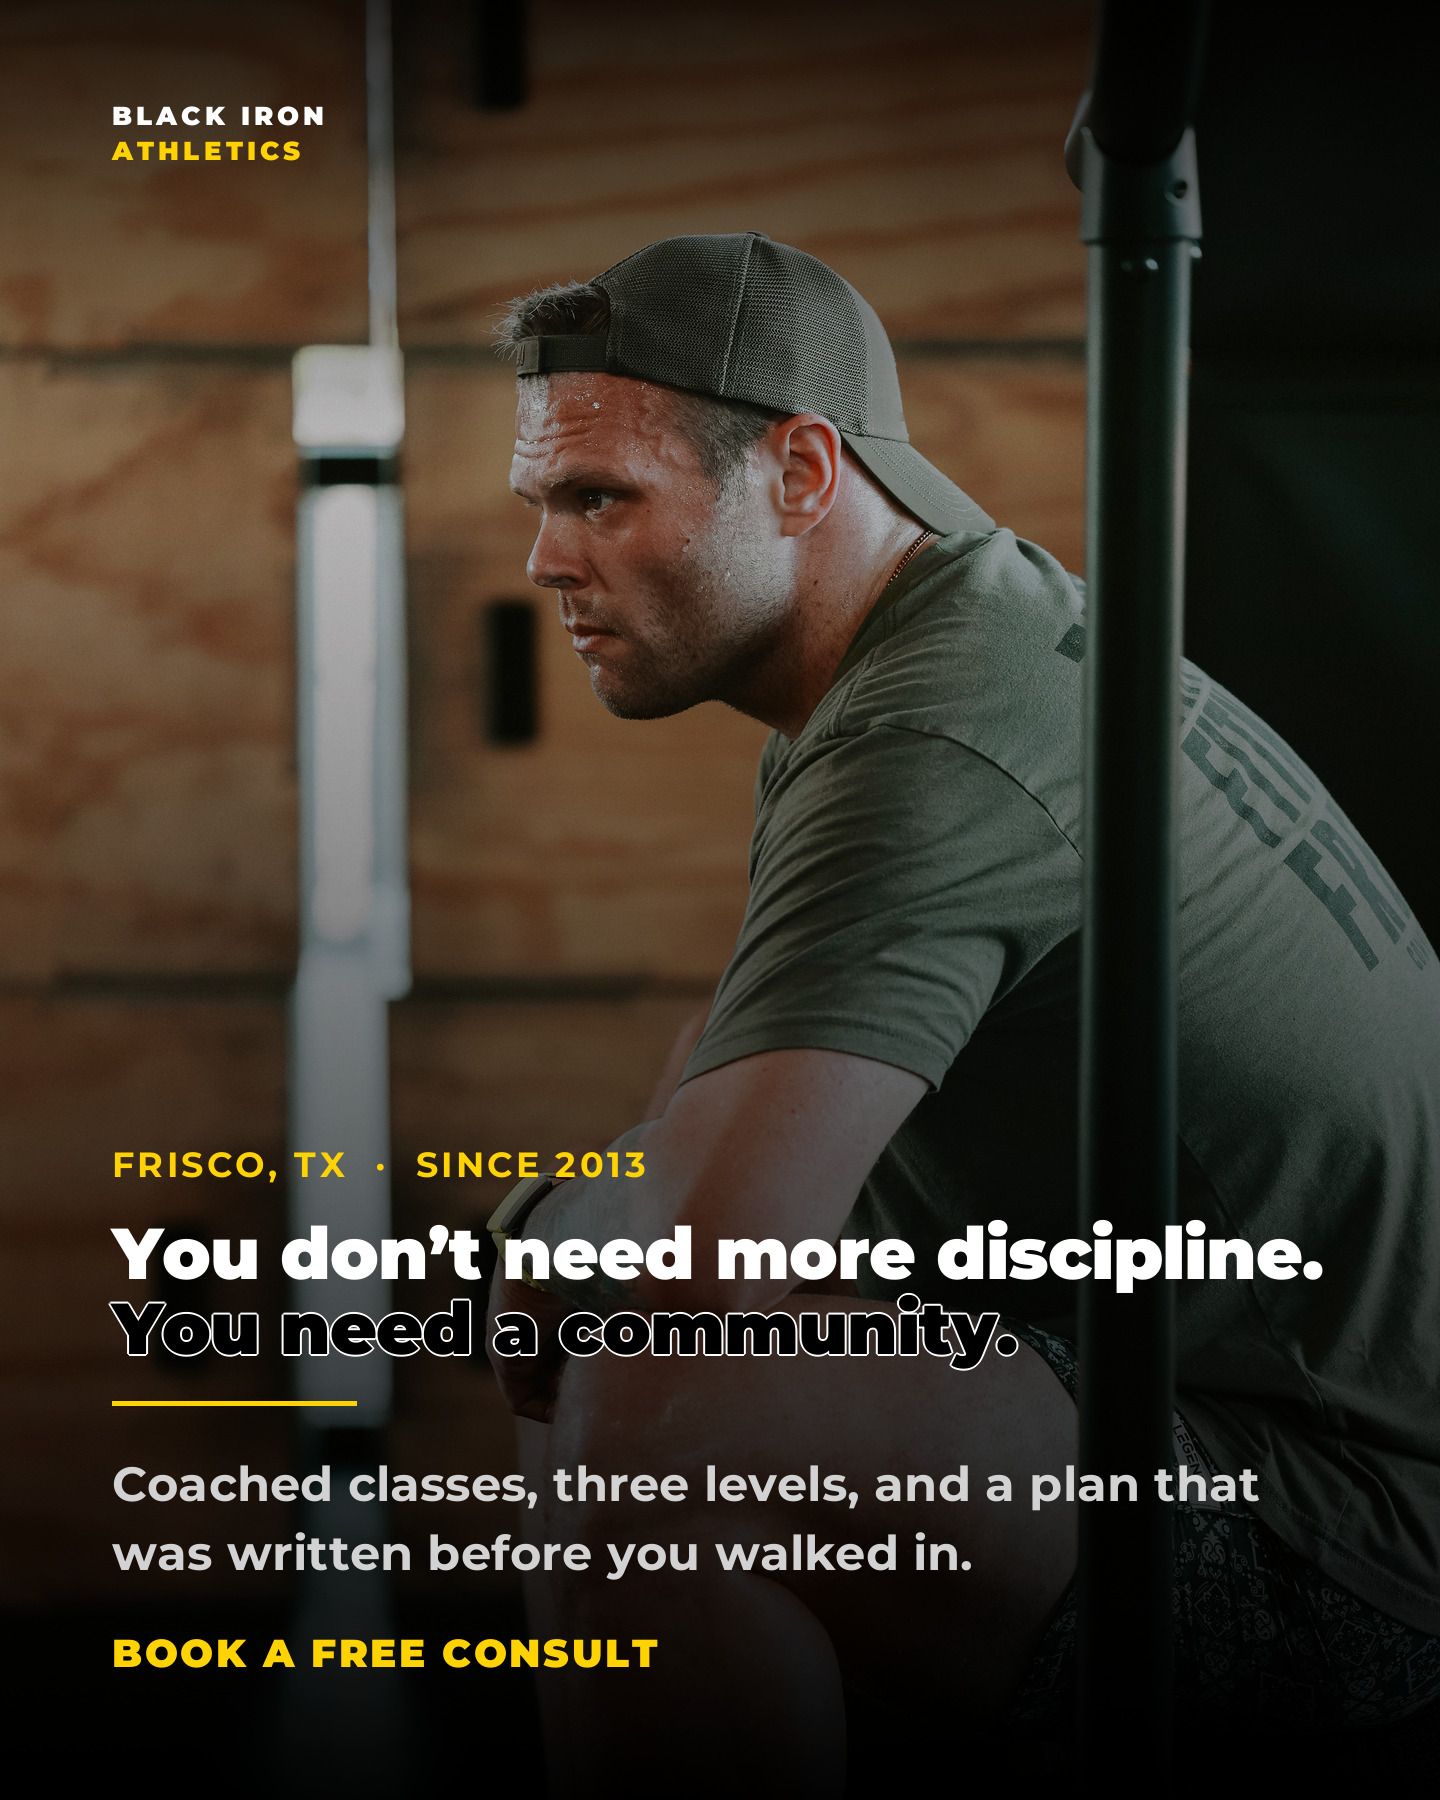
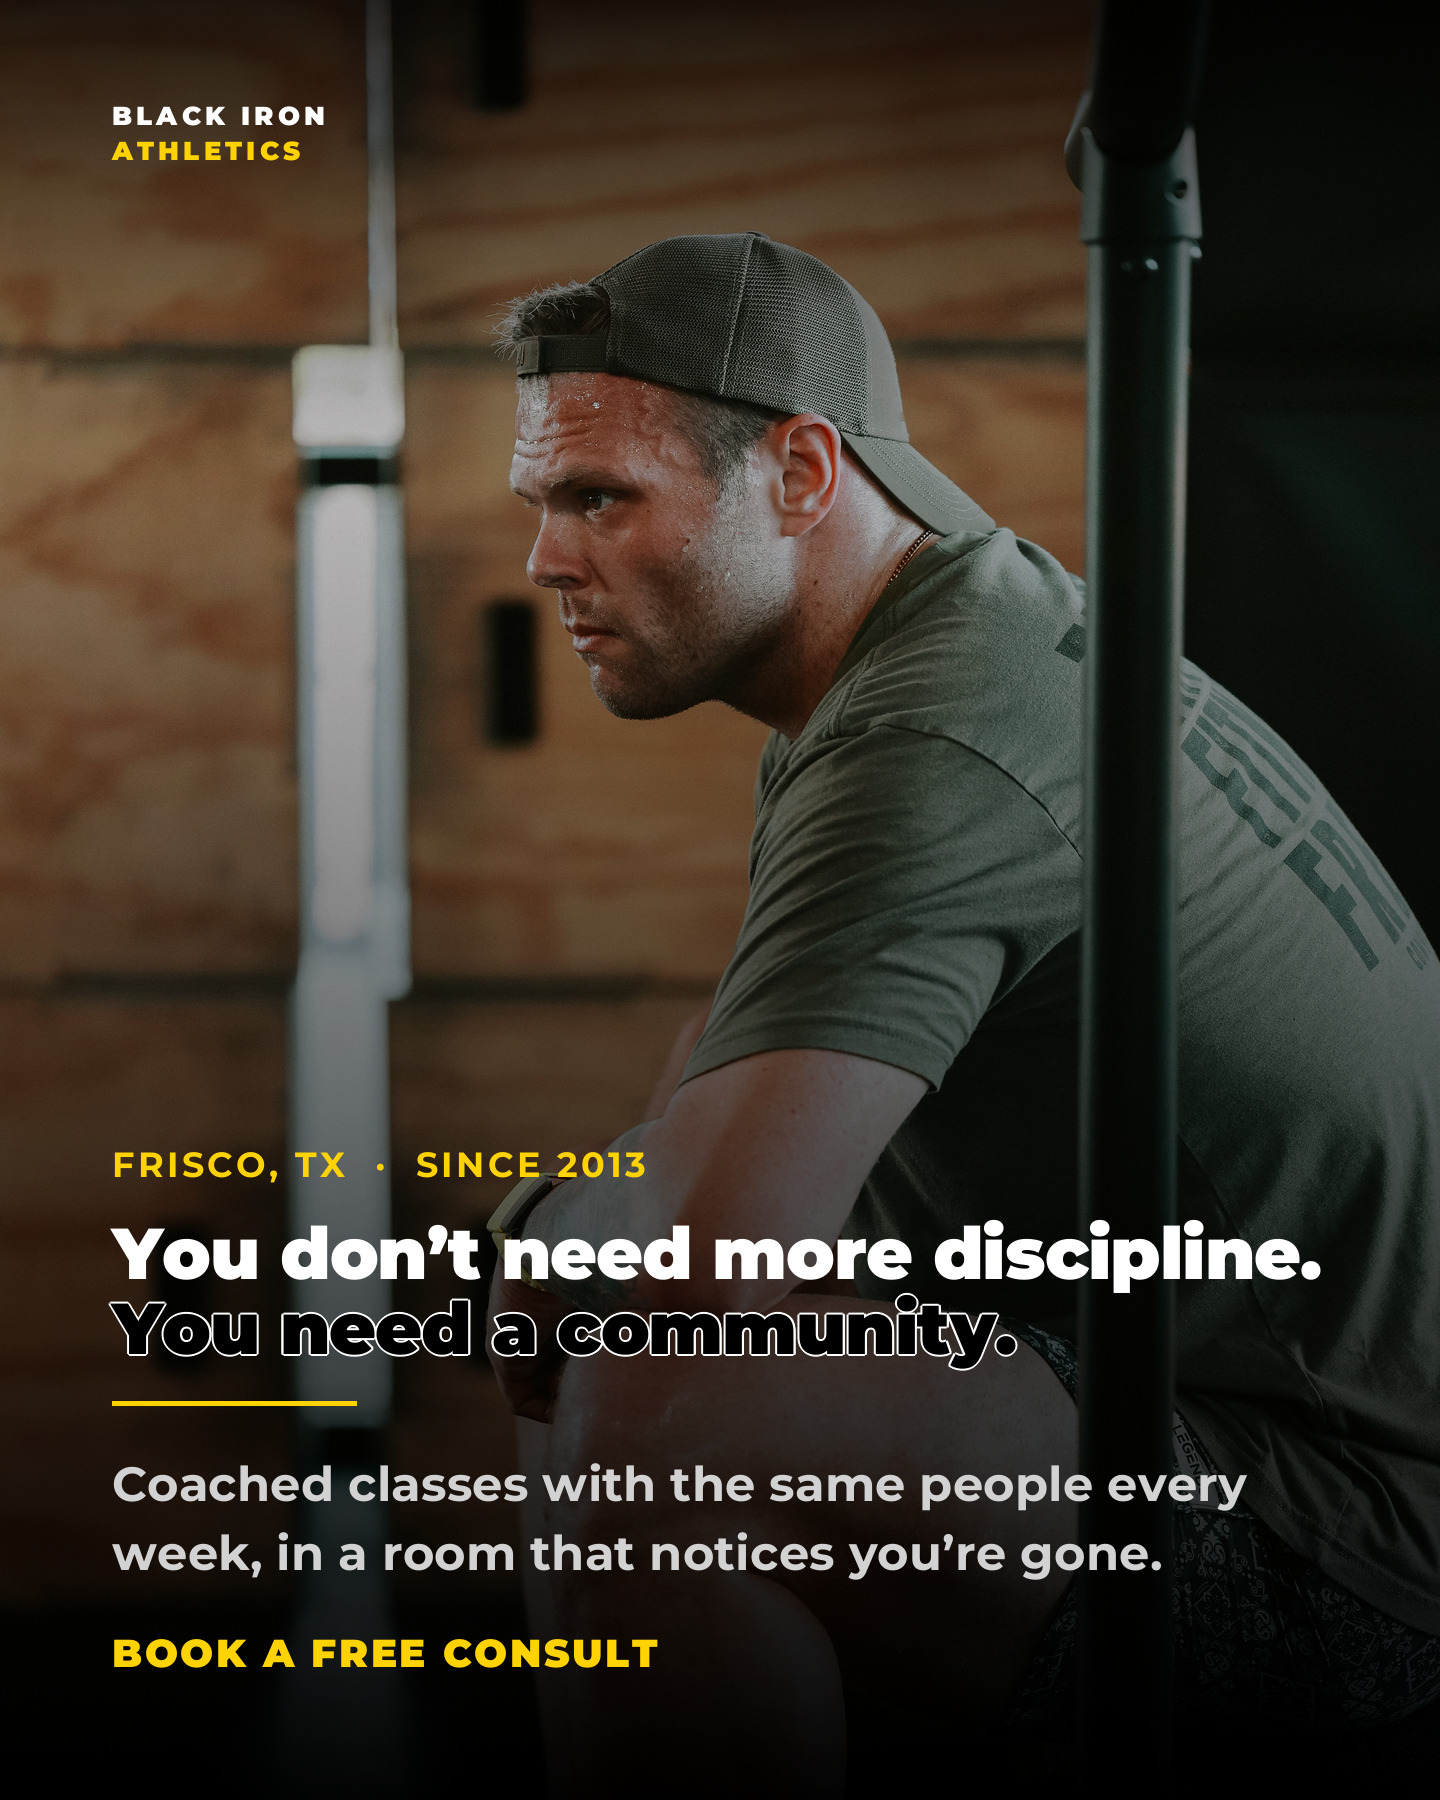
copy: the routine funnel commits to the reframe end to end
The creative moved to "You don't need more discipline. You need a
community." and everything after the click still sold coaching. Someone
tapping because they are tired of being told they lack discipline
landed on a page that opened by telling them they had failed before.
That is a colder handoff than the ad earned, and the generator's own
comment warns against exactly it.

So the whole routine funnel now carries one argument: the problem was
never your discipline, it was that you were doing it alone. The
coaching and the programming are still here and still true, they just
stop being the headline and become the reason it holds.

Landing page: hero matches the ad word for word, so the click is
honest. Situation names the wrong thing they blamed. Mission is "stop
doing it alone", and the three points move from what you get to who is
in the room. Close is "come meet your people".

Capture page: "It was never your discipline", which echoes the ad's
first half in two lines rather than four. Length mattered because that
form already starts too far down the page and a longer headline would
push it further.

Creative sub-line: it was still selling coaching under a community
headline. Rewritten, and tightened to 83 characters after measuring
against the real Montserrat metrics, because the first version orphaned
"it." onto a third line where every other card sets two.

Ad copy in the checklist and the playbook artifact follow, inside
Meta's 125/27/27 limits.
[…]

diff --git a/routine.html b/routine.html
@@ -5,13 +5,13 @@
     <!-- CONTRACT: keep this exact viewport tag — inject-pixel.js insertion marker -->
     <meta name="viewport" content="width=device-width, initial-scale=1.0">
     <meta name="robots" content="noindex,follow">
-    <title>Stop Starting Over | Black Iron Athletics, Frisco TX</title>
-    <meta name="description" content="You’ve started before and it didn’t hold. Here’s the program and the coaching that make this one different. Sixty minute classes, three levels, six class times a day in Frisco. Free twenty minute consult.">
+    <title>Stop Doing It Alone | Black Iron Athletics, Frisco TX</title>
+    <meta name="description" content="You don’t need more discipline. You need a room that notices when you’re not in it. Coached sixty minute classes, three levels, six class times a day in Frisco. Free twenty minute consult.">
     <meta name="geo.region" content="US-TX">
     <meta name="geo.placename" content="Frisco">
     <meta name="geo.position" content="33.15035;-96.89026">
-    <meta property="og:title" content="You’ve started before and it didn’t hold. This time you get a coach.">
-    <meta property="og:description" content="You’ve started before and it didn’t hold. Here’s the program and the coaching that make this one different. Sixty minute classes, three levels, six class times a day in Frisco. Free twenty minute consult.">
+    <meta property="og:title" content="You don’t need more discipline. You need a community.">
+    <meta property="og:description" content="You don’t need more discipline. You need a room that notices when you’re not in it. Coached sixty minute classes, three levels, six class times a day in Frisco. Free twenty minute consult.">
     <meta property="og:url" content="https://www.blackironathletics.com/routine">
     <meta property="og:image" content="https://www.blackironathletics.com/images/social/2026-08-05-default-share.jpg">
     <meta property="og:image:width" content="1200">
@@ -20,8 +20,8 @@
     <meta property="og:type" content="website">
     <meta property="og:site_name" content="Black Iron Athletics">
     <meta name="twitter:card" content="summary_large_image">
-    <meta name="twitter:title" content="You’ve started before and it didn’t hold. This time you get a coach.">
-    <meta name="twitter:description" content="You’ve started before and it didn’t hold. Here’s the program and the coaching that make this one different. Sixty minute classes, three levels, six class times a day in Frisco. Free twenty minute consult.">
+    <meta name="twitter:title" content="You don’t need more discipline. You need a community.">
+    <meta name="twitter:description" content="You don’t need more discipline. You need a room that notices when you’re not in it. Coached sixty minute classes, three levels, six class times a day in Frisco. Free twenty minute consult.">
     <meta name="twitter:image" content="https://www.blackironathletics.com/images/social/2026-08-05-default-share.jpg">
     <link rel="icon" type="image/png" href="/images/anvil-favicon.png">
     <link rel="apple-touch-icon" href="/images/anvil-favicon.png">
@@ -159,8 +159,8 @@
         </div>
         <div class="hero-in wrap">
             <span class="eyebrow eyebrow-y rv">Frisco, TX &middot; Veteran-owned &middot; Est. 2013</span>
-            <h1 class="rv">You’ve started before and it didn’t hold.<br><span class="outline">This time you get a coach.</span></h1>
-            <p class="lead rv rv-d1">About twenty weeks between now and January 1st. Spend them the way you spent the last stretch, or get on a program somebody else already wrote, with a coach who notices when you’re not there.</p>
+            <h1 class="rv">You don’t need more discipline.<br><span class="outline">You need a community.</span></h1>
+            <p class="lead rv rv-d1">You’ve started before. It held for a few weeks and then it didn’t, and somewhere in there you decided that was a discipline problem. It wasn’t. You were doing it alone.</p>
             <div class="hero-ctas rv rv-d2">
                 <a href="#book" class="btn btn-y">Pick a time</a>
             </div>
@@ -181,19 +181,19 @@
     <section class="sect">
         <div class="wrap">
             <span class="eyebrow rv">Where you are</span>
-            <h2 class="rv">There are twenty weeks left in the year, and you’ve been here before.</h2>
-            <p class="lead rv rv-d1">You’ve been here before. There was a membership you paid for and stopped using, or an app, or a January that felt different for about five weeks. You meant it every time. There just wasn’t a plan you didn’t have to write yourself, and nobody noticed when you stopped coming.</p>
+            <h2 class="rv">You’ve been here before, and you blamed the wrong thing.</h2>
+            <p class="lead rv rv-d1">There was a membership you paid for and stopped using, or an app, or a January that felt different for about five weeks. You meant it every time. Nothing was missing from you. What was missing was a room that noticed when you stopped coming.</p>
         </div>
     </section>
     <section class="sect alt">
         <div class="wrap">
             <span class="eyebrow rv">The mission</span>
-            <h2 class="rv">Start one more time, with a plan and a coach, and stay in it.</h2>
-            <p class="lead rv rv-d1">Get on a program somebody else already wrote. Train with a coach who knows your name, your bad shoulder, and what you’re working toward. Then stay in it long enough that training is something you do, not something you’re trying.</p>
+            <h2 class="rv">Stop doing it alone.</h2>
+            <p class="lead rv rv-d1">Train in the same room, at the same hour, with the same people. They learn your name before you learn all of theirs. The programming is handled and a coach is on every rep, but the thing that makes it hold is that somebody is expecting you.</p>
             <ul class="mission-list rv rv-d2">
-                <li>A plan you didn’t have to write</li>
+                <li>The same faces every week</li>
                 <li>A coach who knows your name</li>
-                <li>A week you can actually repeat</li>
+                <li>A room that notices you’re missing</li>
             </ul>
         </div>
     </section>
@@ -363,7 +363,7 @@
     </section>
     <section class="final">
         <div class="final-in wrap">
-            <h2 class="rv" style="text-align:center">One more start.<br><span class="outline">With a coach this time.</span></h2>
+            <h2 class="rv" style="text-align:center">Stop doing it alone.<br><span class="outline">Come meet your people.</span></h2>
             <p class="lead rv rv-d1" style="text-align:center">Twenty minutes with a coach, free, and a straight answer about whether this is the right place for you. That’s the entire ask.</p>
             <div class="bookwrap rv rv-d2" id="book-close">
                 <span class="book-head">Pick a time</span>

diff --git a/start-routine.html b/start-routine.html
@@ -10,7 +10,7 @@
     <meta name="geo.region" content="US-TX">
     <meta name="geo.placename" content="Frisco">
     <meta name="geo.position" content="33.15035;-96.89026">
-    <meta property="og:title" content="One more start, with a coach this time. Free consult in Frisco.">
+    <meta property="og:title" content="You don&rsquo;t need more discipline. You need a community.">
     <meta property="og:description" content="You spent the summer being mom or dad. The kids are back in school and there’s time in your day again. Coached sixty minute classes, three levels. Veteran-owned. In Frisco since 2013. Free twenty minute consult.">
     <meta property="og:url" content="https://www.blackironathletics.com/start-routine">
     <meta property="og:image" content="https://www.blackironathletics.com/images/social/2026-08-05-default-share.jpg">
@@ -20,7 +20,7 @@
     <meta property="og:type" content="website">
     <meta property="og:site_name" content="Black Iron Athletics">
     <meta name="twitter:card" content="summary_large_image">
-    <meta name="twitter:title" content="One more start, with a coach this time. Free consult in Frisco.">
+    <meta name="twitter:title" content="You don&rsquo;t need more discipline. You need a community.">
     <meta name="twitter:description" content="You spent the summer being mom or dad. The kids are back in school and there’s time in your day again. Coached sixty minute classes, three levels. Veteran-owned. In Frisco since 2013. Free twenty minute consult.">
     <meta name="twitter:image" content="https://www.blackironathletics.com/images/social/2026-08-05-default-share.jpg">
     <link rel="icon" type="image/png" href="/images/anvil-favicon.png">
@@ -154,11 +154,11 @@
     </header>
 <main class="cap">
     <span class="eyebrow">Frisco, TX &middot; Veteran-owned &middot; Est. 2013</span>
-    <h1 style="margin-top:10px"><span class="outline">ONE MORE START.</span><br>WITH A COACH THIS TIME.</h1>
+    <h1 style="margin-top:10px"><span class="outline">IT WAS NEVER</span><br>YOUR DISCIPLINE.</h1>
     <p class="trust trust-big"><span class="stars" aria-hidden="true"><svg viewBox="0 0 24 24"><path d="M12 2l3 7 7 .6-5.3 4.6L18.5 22 12 18l-6.5 4 1.8-7.8L2 9.6 9 9z"/></svg><svg viewBox="0 0 24 24"><path d="M12 2l3 7 7 .6-5.3 4.6L18.5 22 12 18l-6.5 4 1.8-7.8L2 9.6 9 9z"/></svg><svg viewBox="0 0 24 24"><path d="M12 2l3 7 7 .6-5.3 4.6L18.5 22 12 18l-6.5 4 1.8-7.8L2 9.6 9 9z"/></svg><svg viewBox="0 0 24 24"><path d="M12 2l3 7 7 .6-5.3 4.6L18.5 22 12 18l-6.5 4 1.8-7.8L2 9.6 9 9z"/></svg><svg viewBox="0 0 24 24"><path d="M12 2l3 7 7 .6-5.3 4.6L18.5 22 12 18l-6.5 4 1.8-7.8L2 9.6 9 9z"/></svg></span><b>5.0</b> <span>on Google</span></p>
     <p class="bul">Twenty minutes, free. No workout, no weigh-in, nothing sprung on you.</p>
-    <p class="bul">A program somebody else already wrote, so there is nothing to figure out.</p>
-    <p class="bul">A coach who knows your name and notices when you are not there.</p>
+    <p class="bul">The same faces every week, in a room where somebody notices you are missing.</p>
+    <p class="bul">A program already written for you, and a coach who knows your name.</p>
     <p class="sub" style="margin:20px 0 0">Tell us where to reach you, then pick your time on the next screen.</p>
     <div class="cap-form">
         <iframe src="https://api.leadconnectorhq.com/widget/form/sKw4RYzEQvvWqnulR49N"

diff --git a/tools/ads.py b/tools/ads.py
@@ -269,7 +269,7 @@ CONCEPTS = [
          bw=True,   # shot monochrome; the flag keeps it that way if it is ever re-exported
          kicker="FRISCO, TX  ·  SINCE 2013",
          big="You don’t need more discipline.", outlined="You need a community.",
-         sub="Coached classes, three levels, and a plan that was written before you walked in.",
+         sub="Coached classes with the same people every week, in a room that notices you’re gone.",
          foot="BOOK A FREE CONSULT"),
 
     dict(key="shotgun-men",
@@ -277,7 +277,7 @@ CONCEPTS = [
          focus={"feed": (.50, .10), "story": (.35, .10)},
          kicker="FRISCO, TX  ·  SINCE 2013",
          big="You don’t need more discipline.", outlined="You need a community.",
-         sub="Coached classes, three levels, and a plan that was written before you walked in.",
+         sub="Coached classes with the same people every week, in a room that notices you’re gone.",
          foot="BOOK A FREE CONSULT"),
 ]
 

diff --git a/docs/ad-launch-checklist.md b/docs/ad-launch-checklist.md
@@ -203,9 +203,9 @@ Description  Frisco. Veteran-owned.
 **Routine** (destination `/start-routine`, `utm_campaign=shotgun-routine`)
 
 ```
-Primary      You’ve started before and it didn’t hold. This time you get a coach, and a plan written before you walked in.
-Headline     This time, a coach.
-Description  Frisco. Three levels.
+Primary      You’ve started before and it didn’t hold. That was never a discipline problem. You were doing it alone.
+Headline     You need a community.
+Description  Frisco. Your people.
 ```
 
 ---
